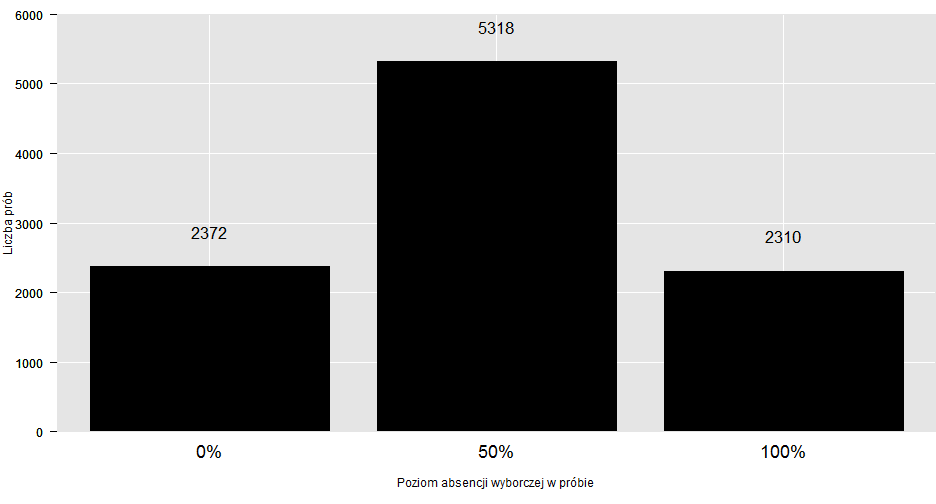
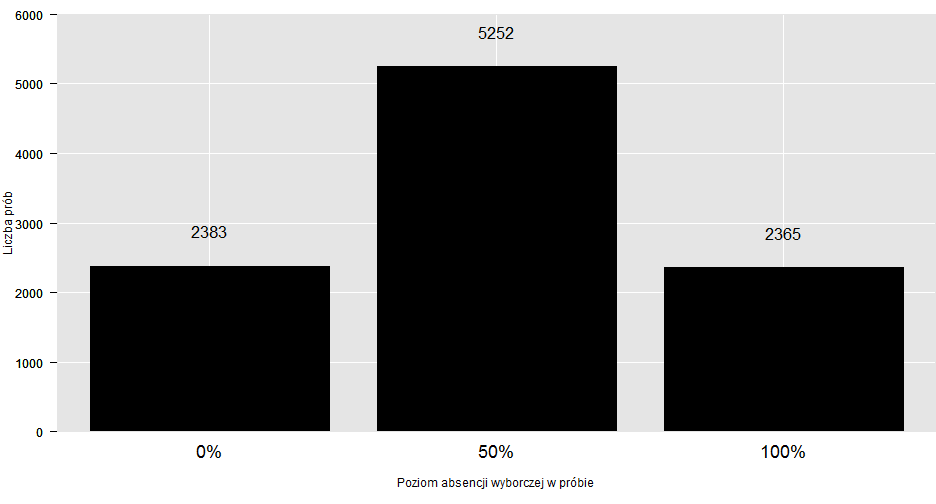
200315_calosc

diff --git a/PogRomcyDanych_NSS.html b/PogRomcyDanych_NSS.html
@@ -872,9 +872,9 @@ c. Pytanie do sondaży 1. oraz 2.:<br/>
 
 <h3>Wykres 7.2. Symulacja - rozkład oszacowania absencji z 10 000 prób</h3>
 
[2 lines of base64/hex data omitted]
 
-<p>Jak widać wyniki symulacji nie odbiegają od tego, co przewidywaliśmy. w 2372 próbach absencja wyborcza wyniosła 0%, w 5318 wyniosła 50%, a w 2310 wyniosła 100%. Różnice są niewielkie. Widzimy więc teraz, że schemat losowania próby determinuje szansę uzyskania poprawnego oszacowania. W przypadku naszego badania wynoszą one 200/380, a więc około 53%.</p>
+<p>Jak widać wyniki symulacji nie odbiegają od tego, co przewidywaliśmy. w 2383 próbach absencja wyborcza wyniosła 0%, w 5252 wyniosła 50%, a w 2365 wyniosła 100%. Różnice są niewielkie. Widzimy więc teraz, że schemat losowania próby determinuje szansę uzyskania poprawnego oszacowania. W przypadku naszego badania wynoszą one 200/380, a więc około 53%.</p>
 
 <p>Dla ponad połowy wszystkich możliwych prób oszacowanie poziomu absencji jest prawidłowe. Wciąż jednak istnieje  spore ryzyko, że się pomylimy. Czy to znaczy, że nasz schemat losowania jest “zły”? Jak w ogóle sprawdzić, czy jest “dobry” i nasze wnioski z badania mogą być trafne?  Spójrzmy na ten problem w następujący sposób: wiadomo, że poszczególne próby dobierane do badania sondażowego mogą dawać trochę inne wyniki. Najlepiej gdyby oszacowania te, jeżeli nie trafiały w punkt, to przynajmniej oscylowały wokół prawidłowego wyniki. Schemat doboru próby powinien być tak zaprojektowany, aby wyniki z generowanych przy jego użyciu prób “ciążyły” w kierunku wartości obserwowanej w populacji. Co to znaczy? Zastanówmy się jaki wynik przeciętnie dają próby generowane przez nasz schemat losowania. Zastosujemy przy tym zasadę często stosowaną w szkole, gdy chcemy się czegoś dowiedzieć o wynikach dane ucznia w skali całego roku. W takim przypadku liczmy średnią arytmetyczną jego ocen. Podobnie zróbimy z naszymi próbami. Policzmy czego możemy się po nich przeciętnie spodziewać. W tym celu dodajemy do siebie wszystkie 380 możliwych oszacowań, a następnie dzielimy je przez liczbę wszystkich prób, czyli 380 - zupełnie jak średnią ocen w szkole. Możemy sobie uprościć to zadanie i zsumować wyniki w następujący sposób: 0%*90+100%*90+50%*200=19000%. Chwilowo rezultat jest absurdalny, ale to minie, gdy podzielimy go przez łączną liczbę prób: 19000% / (90+90+200) = 19000% / 380 =50% !!! I tu docieramy do sedna sprawy. Oto okazuje się, że “przeciętnie” na próbę przypada 50% absencja wyborcza!!! To jest dokładnie tyle, ile wynosi ono w całej populacji!!! Odkryliśmy w ten sposób podstawową &ldquo;prawo&rdquo; dotyczące metody reprezentacyjnej - przeciętny wynik z próby powinien być równy wynikowi dla całe populacji. Jest to najważniejsza zasada badań sondażowych, ale także ogólnie wszystkich badań prowadzonych na próbach. Dzięki temu wiemy, że przeciętnie trafiamy w punkt, czyli próba nie jest &ldquo;obciążona&rdquo; i wyniki z próby nie &ldquo;odbiegają&rdquo; od rzeczywistej wartości w populacji. Osiągnęliśmy to dzięki nadaniu wszystkim obywatelom równych szans dostania się do próby lub inaczej równe prawo do swobodnego wyrażenia swojej opinii.     </p>
 
@@ -1342,8 +1342,6 @@ Niestety nie mamy tyle miejsca i czasu, żeby wyjaśnić, jak na podstawie jedne
 </ol>
 
 <h1>9. Błędy systematyczne</h1>
-
-<p><strong>POMINIĘTE OBLICZENIA</strong></p>
 
 <p>Do tej pory zajmowaliśmy sie głównie teorią badań ankietowych. Czas przejść do praktyki, czyli realizacji wywiadów w &ldquo;terenie&rdquo;. Zbieranie danych od respondentów, bo oni mowa, jest najważniejszą i zarazem najbardziej kosztowną częścią każdego badania sondażowego.<br/>
 Wcześniej (<em>5. Problem badawczy -&gt; populacja -&gt; technika realizacji badania</em>) mówiliśmy o tym, że nie zawsze udaje się nawiązać kontakt ze wszystkimi osobami dobranymi do próby. Nawet gdy to się uda to wciąż nie ma gwarancji, że wywiady rzeczywiście zostaną zrealizowane. Niestety nieuchwytność oraz odmowy respondentów towarzyszą wszystkim technikom zbierania danych. Oczywiście czasem zjawisko to jest mniejsze (badania CAPI), a czasem większe (badania CAWI), ale zawsze występuje. Dlatego też wymyślono wskaźnik do jego mierzenia , czyli <strong>poziomem realizacji próby</strong>. Oblicza się go wyznaczając stosunek liczby respondentów, którzy wzięli udział w badaniu, do ogólnej liczby wszystkich wylosowanych osób. Niższy poziom realizacji próby zwiąksza ryzyko, że nasze wnioski o populacji będą obarczone dużym błędem. Dzieje się tak nie tylko dlatego, że niedostępność respondentów zmniejszają liczbę osób w próbie, ale także dlatego, że przyczynia się ona do pojawienia się <strong>błędów systematycznych</strong> i <strong>obciążenia</strong> wyników z próby. Co to oznacza? Jak zwykle wyjaśnimy to na przykładzie.</p>

diff --git a/PogRomcyDanych_NSS.md b/PogRomcyDanych_NSS.md
@@ -392,7 +392,7 @@ Wiemy teraz dokładnie czego możemy się spodziewać po naszym schemacie losowa
 <img src="figure/unnamed-chunk-6.png" title="plot of chunk unnamed-chunk-6" alt="plot of chunk unnamed-chunk-6" style="display: block; margin: auto;" />
 
 
-Jak widać wyniki symulacji nie odbiegają od tego, co przewidywaliśmy. w 2372 próbach absencja wyborcza wyniosła 0%, w 5318 wyniosła 50%, a w 2310 wyniosła 100%. Różnice są niewielkie. Widzimy więc teraz, że schemat losowania próby determinuje szansę uzyskania poprawnego oszacowania. W przypadku naszego badania wynoszą one 200/380, a więc około 53%.
+Jak widać wyniki symulacji nie odbiegają od tego, co przewidywaliśmy. w 2383 próbach absencja wyborcza wyniosła 0%, w 5252 wyniosła 50%, a w 2365 wyniosła 100%. Różnice są niewielkie. Widzimy więc teraz, że schemat losowania próby determinuje szansę uzyskania poprawnego oszacowania. W przypadku naszego badania wynoszą one 200/380, a więc około 53%.
 
 Dla ponad połowy wszystkich możliwych prób oszacowanie poziomu absencji jest prawidłowe. Wciąż jednak istnieje  spore ryzyko, że się pomylimy. Czy to znaczy, że nasz schemat losowania jest “zły”? Jak w ogóle sprawdzić, czy jest “dobry” i nasze wnioski z badania mogą być trafne?  Spójrzmy na ten problem w następujący sposób: wiadomo, że poszczególne próby dobierane do badania sondażowego mogą dawać trochę inne wyniki. Najlepiej gdyby oszacowania te, jeżeli nie trafiały w punkt, to przynajmniej oscylowały wokół prawidłowego wyniki. Schemat doboru próby powinien być tak zaprojektowany, aby wyniki z generowanych przy jego użyciu prób “ciążyły” w kierunku wartości obserwowanej w populacji. Co to znaczy? Zastanówmy się jaki wynik przeciętnie dają próby generowane przez nasz schemat losowania. Zastosujemy przy tym zasadę często stosowaną w szkole, gdy chcemy się czegoś dowiedzieć o wynikach dane ucznia w skali całego roku. W takim przypadku liczmy średnią arytmetyczną jego ocen. Podobnie zróbimy z naszymi próbami. Policzmy czego możemy się po nich przeciętnie spodziewać. W tym celu dodajemy do siebie wszystkie 380 możliwych oszacowań, a następnie dzielimy je przez liczbę wszystkich prób, czyli 380 - zupełnie jak średnią ocen w szkole. Możemy sobie uprościć to zadanie i zsumować wyniki w następujący sposób: 0%\*90+100%\*90+50%\*200=19000%. Chwilowo rezultat jest absurdalny, ale to minie, gdy podzielimy go przez łączną liczbę prób: 19000% / (90\+90\+200) = 19000% / 380 =50% !!! I tu docieramy do sedna sprawy. Oto okazuje się, że “przeciętnie” na próbę przypada 50% absencja wyborcza!!! To jest dokładnie tyle, ile wynosi ono w całej populacji!!! Odkryliśmy w ten sposób podstawową "prawo" dotyczące metody reprezentacyjnej - przeciętny wynik z próby powinien być równy wynikowi dla całe populacji. Jest to najważniejsza zasada badań sondażowych, ale także ogólnie wszystkich badań prowadzonych na próbach. Dzięki temu wiemy, że przeciętnie trafiamy w punkt, czyli próba nie jest "obciążona" i wyniki z próby nie "odbiegają" od rzeczywistej wartości w populacji. Osiągnęliśmy to dzięki nadaniu wszystkim obywatelom równych szans dostania się do próby lub inaczej równe prawo do swobodnego wyrażenia swojej opinii.     
 
@@ -625,8 +625,6 @@ __Zadania 8:__
   
 
 # 9. Błędy systematyczne 
-
-__POMINIĘTE OBLICZENIA__
 
 Do tej pory zajmowaliśmy sie głównie teorią badań ankietowych. Czas przejść do praktyki, czyli realizacji wywiadów w "terenie". Zbieranie danych od respondentów, bo oni mowa, jest najważniejszą i zarazem najbardziej kosztowną częścią każdego badania sondażowego.   
 Wcześniej (_5. Problem badawczy -> populacja -> technika realizacji badania_) mówiliśmy o tym, że nie zawsze udaje się nawiązać kontakt ze wszystkimi osobami dobranymi do próby. Nawet gdy to się uda to wciąż nie ma gwarancji, że wywiady rzeczywiście zostaną zrealizowane. Niestety nieuchwytność oraz odmowy respondentów towarzyszą wszystkim technikom zbierania danych. Oczywiście czasem zjawisko to jest mniejsze (badania CAPI), a czasem większe (badania CAWI), ale zawsze występuje. Dlatego też wymyślono wskaźnik do jego mierzenia , czyli __poziomem realizacji próby__. Oblicza się go wyznaczając stosunek liczby respondentów, którzy wzięli udział w badaniu, do ogólnej liczby wszystkich wylosowanych osób. Niższy poziom realizacji próby zwiąksza ryzyko, że nasze wnioski o populacji będą obarczone dużym błędem. Dzieje się tak nie tylko dlatego, że niedostępność respondentów zmniejszają liczbę osób w próbie, ale także dlatego, że przyczynia się ona do pojawienia się __błędów systematycznych__ i __obciążenia__ wyników z próby. Co to oznacza? Jak zwykle wyjaśnimy to na przykładzie.
